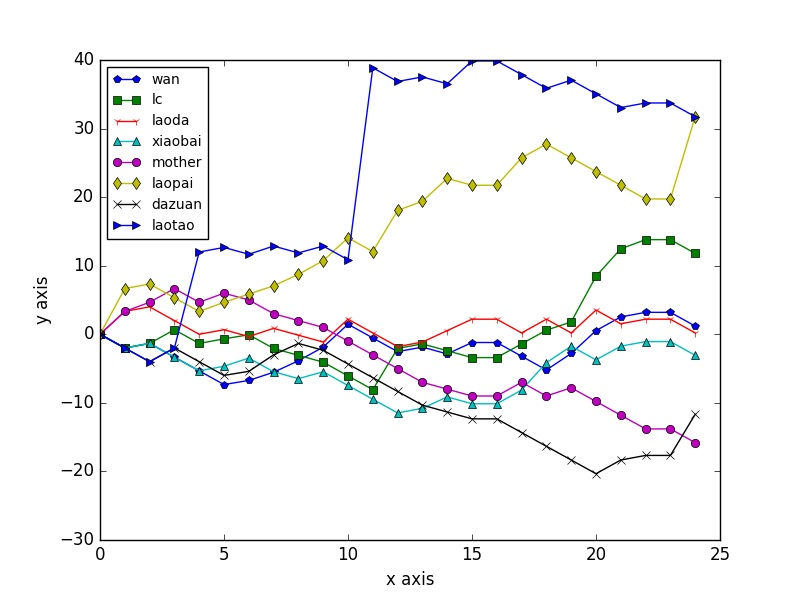
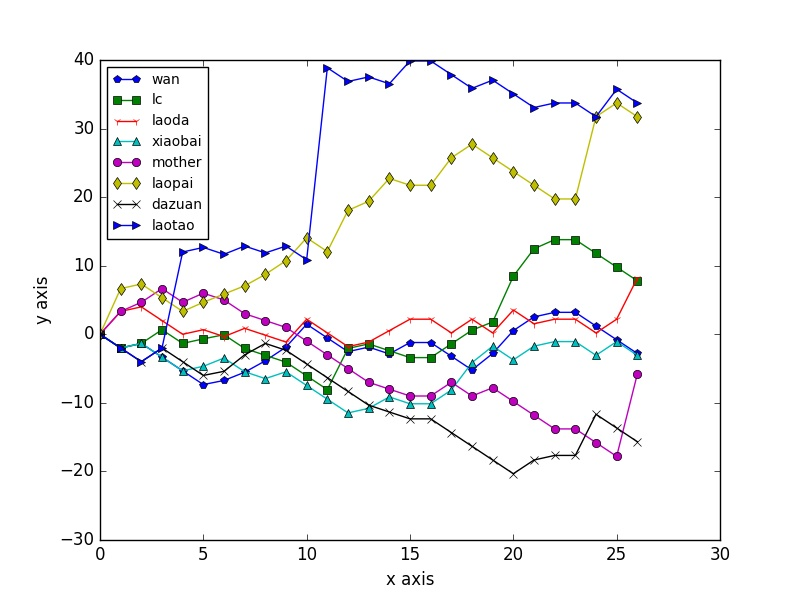
update

diff --git a/generate_default_match_data.py b/generate_default_match_data.py
@@ -30,12 +30,12 @@ def generate_default_match_data(teamA, teamB, date, time, handicap1, handicap2, 
 
 
 if __name__ == "__main__":
-    teamA = "Portugal"
-    teamB = "Austria"
-    date = "20160619"
+    teamA = "Romania"
+    teamB = "Albania"
+    date = "20160620"
     time = "03"
     handicap1 = -0.5
-    handicap2 = -0.5
+    handicap2 = 0
     players = loader.loadPlayers()
     generate_default_match_data(teamA, teamB, date, time, handicap1, handicap2, players)
 

diff --git a/README.md b/README.md
@@ -1,23 +1,63 @@
 # E cup guess competition report
 ## real-time ranking
-2016-06-19 10:31:51
+2016-06-20 11:06:14
 
 |rank|name|score|
 |:---:|:---:|:---:|
-|1|laotao|31.73|
+|1|laotao|33.73|
 |2|laopai|31.73|
-|3|lc|11.80|
-|4|wan|1.20|
-|5|laoda|0.20|
+|3|laoda|8.20|
+|4|lc|7.80|
+|5|wan|-2.80|
 |6|xiaobai|-3.07|
-|7|dazuan|-11.67|
-|8|mother|-15.80|
+|7|mother|-5.80|
+|8|dazuan|-15.67|
 
 ## Pond
-572.87
+564.87
 
 ## History
 ![image](https://github.com/Anserw/E_Cup/blob/master/plot.jpg)
+### 2016062003 France 0 : 0 Switzerland
+- handicap: -0.5
+- scorer: laotao
+- owners:
+ - France: laotao
+ - Switzerland: laotao
+
+
+|name|guess|score change|
+|:---:|:---:|:---:|
+|wan|France|-2.00|
+|lc|France|-2.00|
+|laoda|Switzerland|2.00|
+|xiaobai|Switzerland|2.00|
+|mother|France|-2.00|
+|laopai|Switzerland|2.00|
+|dazuan|France|-2.00|
+|laotao|Switzerland|4.00|
+|Pond|..|-2.00|
+
+### 2016062003 Romania 0 : 1 Albania
+- handicap: -0.5 / 0
+- scorer: laotao
+- owners:
+ - Romania: laopai
+ - Albania: mother
+
+
+|name|guess|score change|
+|:---:|:---:|:---:|
+|wan|Romania|-2.00|
+|lc|Romania|-2.00|
+|laoda|Albania|6.00|
+|xiaobai|Romania|-2.00|
+|mother|Albania|12.00|
+|laopai|Romania|-2.00|
+|dazuan|Romania|-2.00|
+|laotao|Romania|-2.00|
+|Pond|..|-6.00|
+
 ### 2016061903 Portugal 0 : 0 Austria
 - handicap: -0.5
 - scorer: laotao
